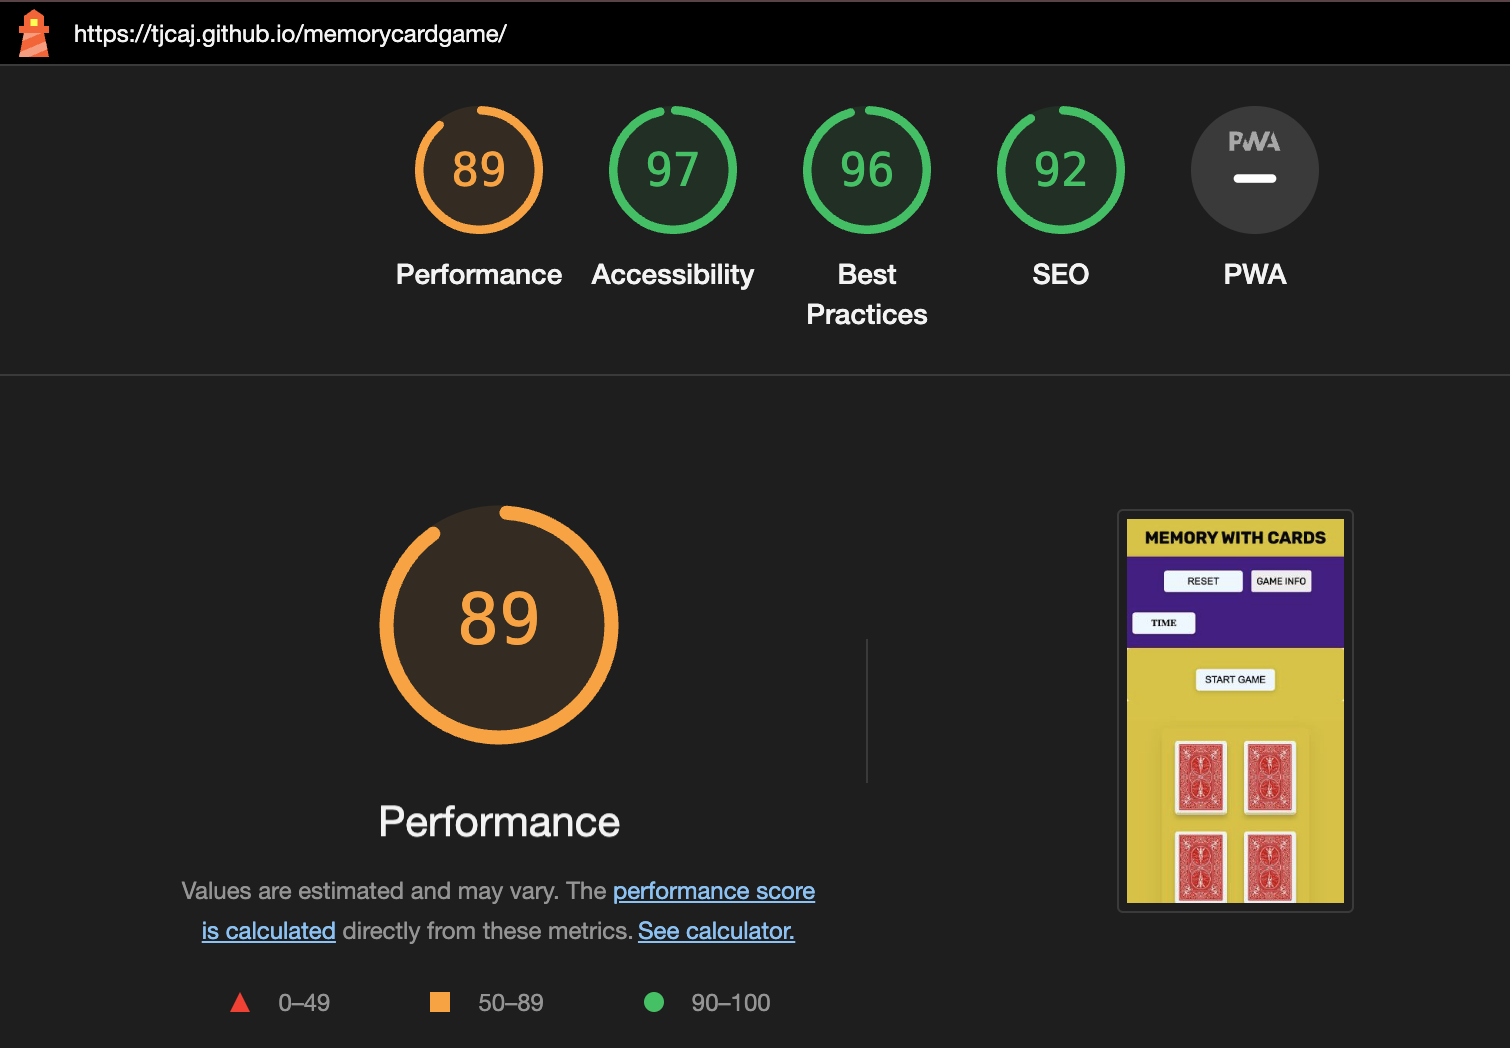
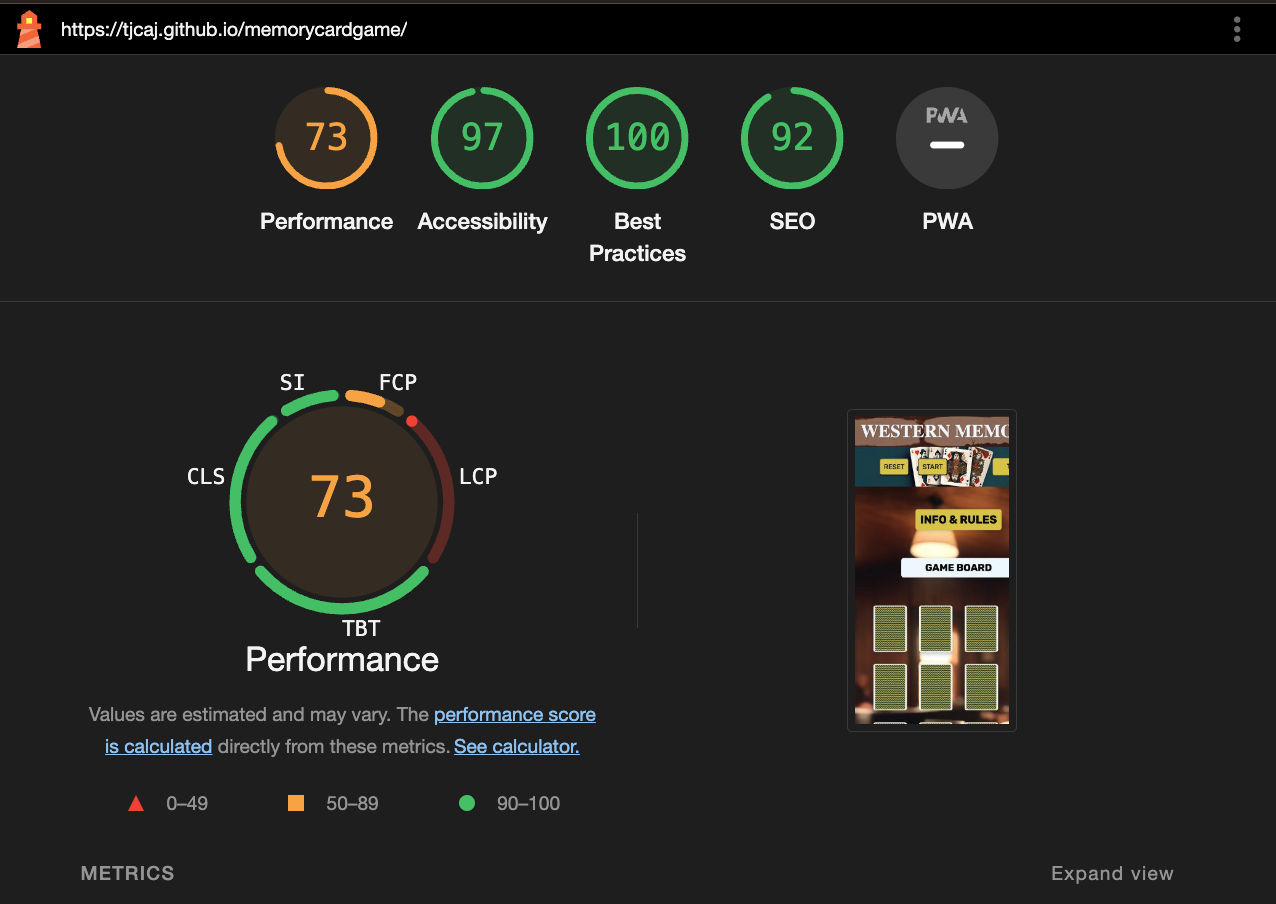
Add alt and role="img" aria-labels for images used as backgrounds

diff --git a/index.html b/index.html
@@ -40,13 +40,13 @@
     <main>
         <!-- Header -->
 
-        <header class>
+        <header class role="img" aria-label="a desert landscape with a tournado swirling">
             <div class="title">
                 <h1>WESTERN MEMORIES</h1>
             </div>
         </header>
 
-        <div class="navbar">
+        <div class="navbar" role="img" aria-label="four playing cards on a game table cloth">
             <!-- Modal button -->
             <!--    <button id="open-modal-btn">GAME INFO</button> -->
             <div>
@@ -61,13 +61,15 @@
 
         <!-- Game Board with Playing Card Images -->
 
-        <section class="gameboard">
+        <section class="gameboard" role="img"
+            aria-label="a lonesome cowboy sitting in a saloon at a gambling table looking at playing cards">
 
             <div class="card-wrapper" id="cardcontainer">
                 <div>
                     <div id="modal-trigger">
                         <!-- Modal overlay with info how to play -->
-                        <div id="overlay"></div>
+                        <div id="overlay" role="img"
+                            aria-label="a desert landscape with a cowboy riding towards sunset"></div>
                         <h3>INFO & RULES</h3>
                         <div id="modal">
                             <h2>HOW TO PLAY</h2>
@@ -187,7 +189,8 @@
 
         <div id="gameOverModal" style="display:none;">
             <!--<div id="gameover-overlay"></div> -->
-            <div class="game-over-content">
+            <div class="game-over-content" role="img"
+                aria-label="a lonesome cowboy siluette on a dark street with pouring rain">
                 <h2>GAME OVER!</h2><br>
                 <p>You couldn't help the lonesome Cowboy to remember the cards!<br>Now he must duel
                     to clear his losses at the gaming table.</p>

diff --git a/README.md b/README.md
@@ -1,8 +1,8 @@
-# Memory with cards
+# WESTERN MEMORIES
 
 [View live project here on Github Pages]()
 
-Memory with cards is a matching card game built with HTML, CSS, and JavaScript. The aim of the game is to enjoy playing with a deck of playing cards in a non-competitive, relaxed environment where goal is to match as many pairs as you can withinn a specified time-frame with the same value and colour in RED or BLACK. Hence _Diamonds_ and _Hearts_ are considered matching pairs, as well as _Clover_ and _Spades_. This is my first JavaScript project built for the Code Institute's Full Stack Software Development course.
+WESTERN MEMORIES is a fun matching card game built with HTML, CSS, and JavaScript. The aim of the game is to enjoy playing with a deck of playing cards in a non-competitive, relaxed environment where goal is to match as many pairs as you can withinn a specified time-frame with the same value and colour in RED or BLACK. Hence _Diamonds_ and _Hearts_ are considered matching pairs, as well as _Clover_ and _Spades_. This is my first JavaScript project built for the Code Institute's Full Stack Software Development course.
 
 <br>
 
@@ -32,11 +32,11 @@ Memory with cards is a matching card game built with HTML, CSS, and JavaScript. 
 
 ### **Primary Goal**
 
-Memory with cards is an online memory card game styled with a clean and user friendly design. It is suitable for all ages. The game aims to provide a relaxed, memory-enhancing experience.
+WESTERN MEMORIES is an online memory card game styled in a classic western theme with a clean but visually interesting and user friendly design. It is suitable for all ages. The game aims to provide a relaxed, memory-enhancing experience and test your memory ability under time pressure.
 
 ### **User/Visitor Goals**
 
-Memory with cards has been designed to be easily accessible and fun for all ages. It is a grid-style card game where the user is expected to flip as many matching cards as possible and keep them locked before the time is up. This is testing the users memory skills. Design and styling will be responsive to different media screen sizes. A preset timer iniates a counter as the user press the start button. When the time is up a message of "Time up" is displayed for the user.
+WESTERN MEMORIES has been designed to be easily accessible and fun for all ages. It is a grid-style card game where the user is expected to flip as many matching cards as possible and keep them locked before the time is up. This is testing the users memory skills. Design and styling is responsive to different media screen sizes. A preset timer iniates a counter as the user press the start button. When the time is up a message of _"Time up"_ is displayed for the user.
 
 ### **First-Time User/Visitor**
 
@@ -48,7 +48,7 @@ Memory with cards has been designed to be easily accessible and fun for all ages
 ### **Returning User/Visitor**
 
   - As a returning user, I want to be able to set up the gameboard in diferent levels; _Easy_, _Medium_ or _Hard_.
-  - As a returning user, I want to be able to configure my game with at least three different amount of cards; 16, 36 and 52.
+  - As a returning user, I want to be able to configure my game with at least three different amount of cards; 16, 24 and 36.
   - As a returning visitor, I want to be able to play the game on different devices.
   - As a returning visitor, I want to be able to reset the game screen quickly if I share it with another user for their try.
   
@@ -62,8 +62,7 @@ Memory with cards has been designed to be easily accessible and fun for all ages
 
 My goal was to build an interactive, memory game suitable for all ages. I wished to use a deck of cards to set up an easy and familiar styling of the game. The theme is also to some extent a follow-up to my previous PP1 project in mind, where created website for a poker club. I would like to see this as continuation and learn how to create various games adapted for such a website.
 
-  - The user will are able to familiarise themselves with the game rules before setting up the gameboard with various levels and time frames. 
-  - The user can develop their memory skills by advancing in levels and shorter time intervalls. 
+  - The user will able to familiarise themselves with the game rules before starting tto play. 
 
 ### **2. Scope**
 
@@ -79,10 +78,10 @@ The game must be responsive and playable on mobile, tablet, and desktop-sized de
 
 The game site will have a clean layout with every feature identifiable and interactive.
 
-  - On loading, the page display the easiest level of the gameboard with 16 cards already shuffled. A preset timer will automatically begin to count as the start game button is clicked. A responisve modal or menu will also offer optional settings. 
+  - On loading, the page display the gameboard with 16 cards already shuffled. A preset timer of 60 seconds will automatically begin to count as the start game button is clicked.
   - The gameboard is situated in the center of the screen with the size of 4x4 gamecards displayed.
   - _Timer/counter_ are located above the gameboard to the right for larger screens and on top for smaller screens.
-  - A _Reset_ button is located to the left, nest to the modal and and _Game Info_ button.
+  - A _Reset_ button is located to the left, next to the _Start_ button.
   - A message of "TIME UP" is displayed where the Timer is also displayed. 
 
   ### **Wireframes**  
@@ -170,7 +169,7 @@ Adobe Color Accessibility Tools was used to check for colour blind safeness in t
 ### **1. Game Board**
 ![screenshot of game board](../memorycardgame/assets/docs/images/screenshot__gameboard.png)  
 
-The gameboard greets the user when the page first loads. It is a 4x4 grid-style gameboard. A classic red card pattern decorates the back of the cards. Cards are flipped, one at a time, revealing original card values with jack, queen, king and aces. Matched cards stay facing up witha green border to indicate success. Unmatched cards shake briefly with a red border and flip back over. A 'Reset' button is present to reset the game experience for the current player or set it up for a new player.
+The gameboard greets the user when the page first loads. It is a 4x4 grid-style gameboard. A classic yellow and blue card pattern decorates the back of the cards. Cards are flipped, one at a time, revealing original card values with jack, queen, king and aces. Matched cards stay facing up witha green border to indicate success. Unmatched cards shake briefly with a red border and flip back over. A 'Reset' button is present to reset the game experience for the current player or set it up for a new player.
 
 <br>
 
@@ -186,17 +185,20 @@ This modal is integrated in the Header as a menu option and details the game rul
 ![screenshot of timer count](../memorycardgame/assets/docs/images/screenshot_timer_count.png)
 ![screenshot of message time up](../memorycardgame/assets/docs/images/screenshot_time_up.png)
 
-The timer starts when the user click on the "Start" button and works as a reversed countdown. As it reaches the end of the preset time intervall it displays that the time is up. This is to allow the player to choose whether they wish to play again and try to beat their recent score.
+The timer starts when the user click on the "Start" button and works as a reversed countdown. As it reaches the end of the preset time intervall it displays that the time is up. A game over modal also display a message that; _"You couldn't help the lonesome Cowboy to remember the cards! Now he must duel to clear his losses at the gaming table!"_ This is to motivate the player to play again.
 
-Clicking the 'Reset' button, allows the player to start over with a shuffled gameboard, reset the timer and moves counter back to zero indicated in the display with "Time".
+Clicking the _Reset_ button, allows the player to start over and reset the timer indicated in the display with _"Time"_. The _Start_ button automatically shuffles the cards on the gameboard, 
 
 <br>
 
 ## Future Features
 
-- As mentioned earlier, I wish to include extra features and options. For this I want to add the option to change level and try an easier or a more difficult version, with various time intervalls and adding more cards to the gameboard with options of 16, 36 and 52 cards. This will improve the gaming experience as it gives the user more ways to challenge his/her memory skills. But this was beyond the scope of this version and will be included in the next version.
+- As mentioned earlier, I wish to include extra features and options. For this I want to add the option to change level and try an easier or a more difficult version, with various time intervalls and adding more cards to the gameboard with options of 16, 24 and 36 cards. This will improve the gaming experience as it gives the user more ways to challenge his/her memory skills. But this was beyond the scope of this version and will be included in the next version.
+
+- I would also like to add setting up the gameboard with various levels and time frames. This will allow the user to develop their memory skills by advancing in levels and improve with shorter time intervalls. A responisve modal or menu can offer optional settings. 
 
 - In addition, I would also like to add the feature for all players with an option to enter "player's name" to personalise the gameboard. As well as to include a scoreboard with at leas the top five results by the players' names entered. This will appeal to the more competitive players and enhance the gaming experience. 
+
 
 ---  
 
@@ -214,7 +216,9 @@ Clicking the 'Reset' button, allows the player to start over with a shuffled gam
 - GitHub - used to save and store all files for this website  
 - Git - used for version control
 - Google Fonts - fonts were imported from here 
-- Favicon - icon were edited and downloaded from here  
+- Favicon - icon were edited and downloaded from here 
+- magicpattern.design - to create new pattern on playing card back view
+- freepik.com - to generate images with text for the overall visual impression of the western theme
 - Adobe Color - for all color palettes and accessibility color testing
 - Adobe Photoshop to compress and convert images to Webp format
 - Google Dev Tools - to debug and for testing responsiveness 
@@ -269,7 +273,7 @@ To make a copy of this GitHub repository that allows you to view the content and
   
 ### **Initial tests**  
   
-The primary goal for this project was for me to learn the basis of Javascript and to create a responsive game web application that delivers a positive experience for the user. I have used Chrome Dev Tools to test the game. Using the console and JSHint to debug JavaScript was new to me, but will surely be something that I will continue to use. I choosed to deploy my page late in the development process this time, to ensure that I had the ability to understand javascript better and could test my skills first, without having to commit all the time while I was still very much in a learning curve. This is why I have commits with some larger chunks of code in the beginning of the build, that I used from a locally stored version on my computer.
+The primary goal for this project was for me to learn the basis of Javascript and to create a responsive game web application that delivers a positive experience for the user. I have used Chrome Dev Tools to test the game. Using the console and JSHint to debug JavaScript was new to me, but will surely be something that I will continue to use. I choosed to deploy my page late in the development process this time, to ensure that I had the ability to understand javascript better and could test my skills first, without having to commit all the time while I was still very much in a learning curve. This is why I have commits with some larger chunks of code in the beginning of the build, that I used from a locally stored version on my computer. I will also most likely continue to work locally first and develop my next projects before setting up new repositorys on Github.
   
 - Macbook Pro (5120 X 2880)  
 - LG HDR 4K" Monitor (3840x2160)
@@ -307,21 +311,21 @@ The [W3C Validator](https://validator.w3.org/) was used to validate HTML and the
 <details>
 <summary>W3C HTML Validation - no errors or warnings to show </summary>
 
-![html w3c validation](docs/validation/html)
+![html w3c validation](./assets/docs/images/wc3_html_validated.png)
 </details>  
 
 
 <details>
 <summary>W3C Jigsaw CSS Validation - no errors found</summary>
 
-![css w3c validation](docs/validation/css)
+![css w3c validation](./assets/docs/images/wc3_css_validated.png)
 </details>  
 
 
 <details>
 <summary>JSHint for JavaScript validation - no errors found. </summary>
 
-![JSHint for JavaScript validation](docs/validation/jshint)
+![JSHint for JavaScript validation](./assets/docs/images/jshint_check.png)
 </details>  
 
 
